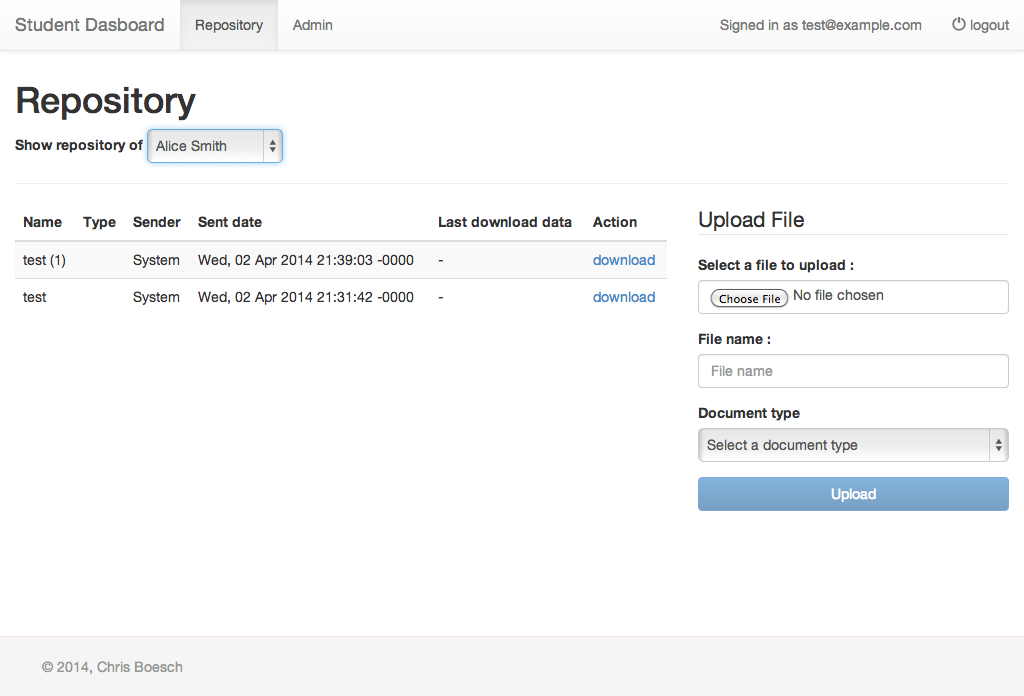
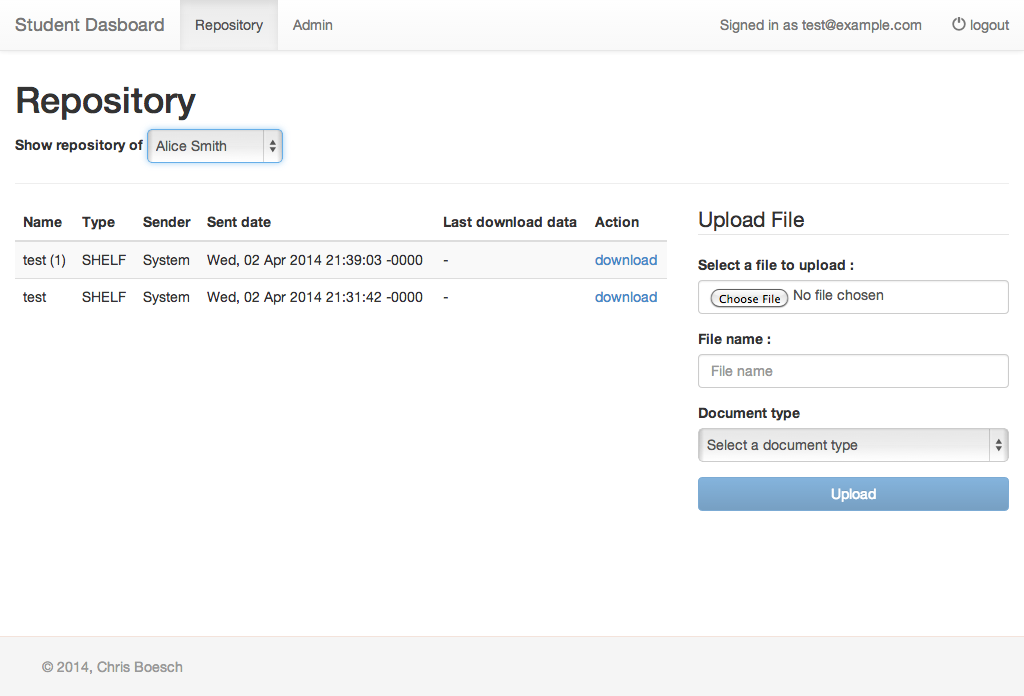
Fix e2e backend mock

diff --git a/app/js/appSpec.e2e.js b/app/js/appSpec.e2e.js
@@ -39,6 +39,7 @@
               'files': [{
                 'destId': 'x1',
                 'name': 'test (1)',
+                'type': 'SHELF',
                 'url': '/api/v1/dashboard/repository/files/tKcnN9E5z4OFWNawW7WKaQ==',
                 'sender': 'System',
                 'lastDownloadAt': '',
@@ -47,6 +48,7 @@
               }, {
                 'dest': 'Smith, Alice',
                 'name': 'test',
+                'type': 'SHELF',
                 'url': '/api/v1/dashboard/repository/files/VXZzPGy5lw9sq2z_9ANqsA==',
                 'sender': 'System',
                 'lastDownloadAt': '',
